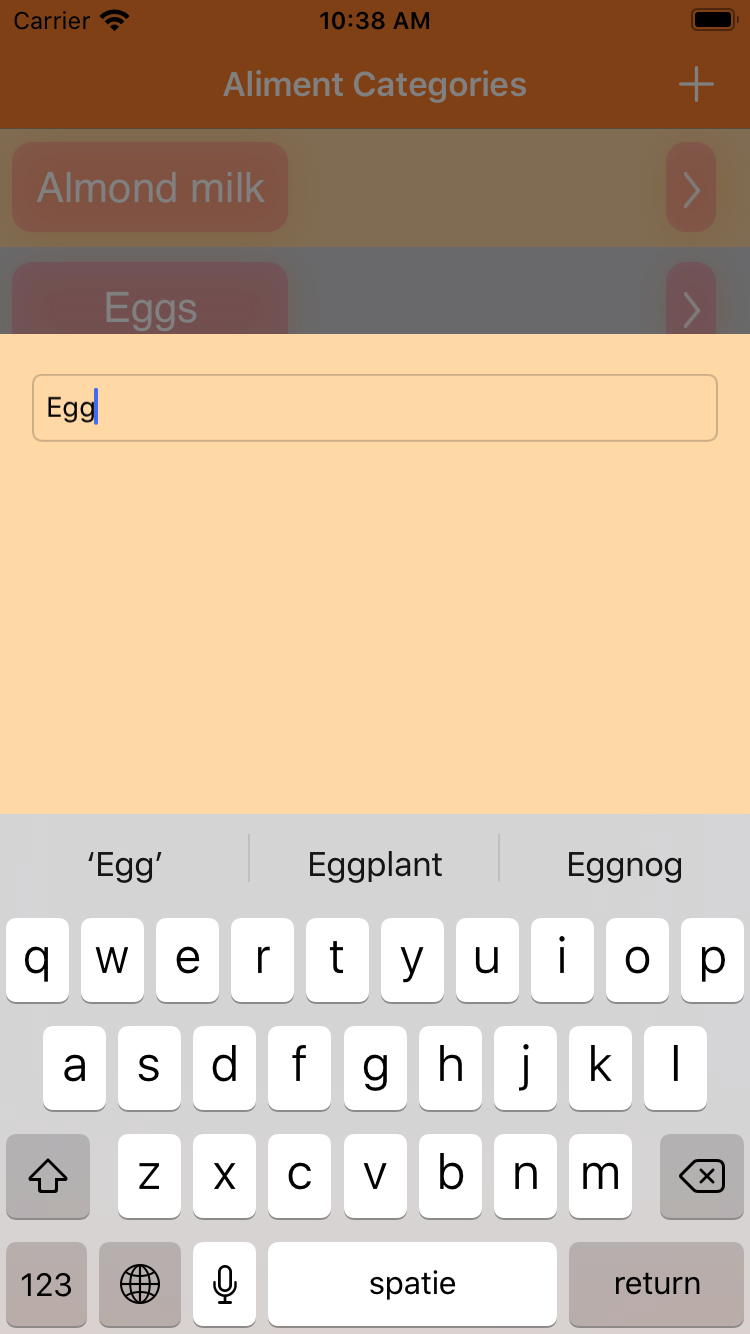
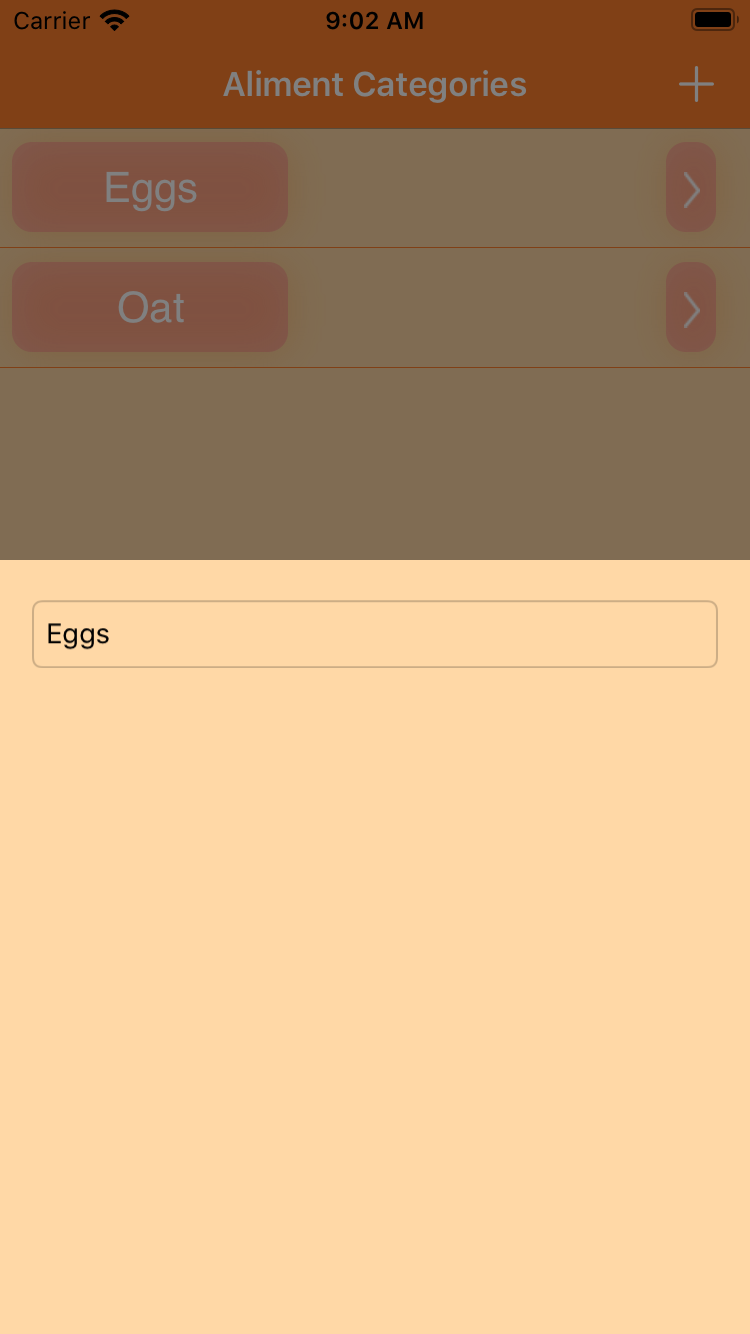
Screenshots updated Ratio changed for type edit modal Navigation view controllers renamed in SB Aliments cell NIB updated to set selection style to none

diff --git a/FeedMe/Controllers/Table views/ListViewController.swift b/FeedMe/Controllers/Table views/ListViewController.swift
@@ -58,7 +58,7 @@ class ListViewController: UITableViewController {
         case is PickerViewController.Type:
             modalRatio = Float(0.36)    // change modal ratio for picker view
         case is EditTypeViewController.Type:
-            modalRatio = Float(0.36)     // change modal ratio for edit type view
+            modalRatio = Float(0.58)     // change modal ratio for edit type view
         default:
             fatalError("View Controller is of an unknown type derived from ItemViewController.")
         }
